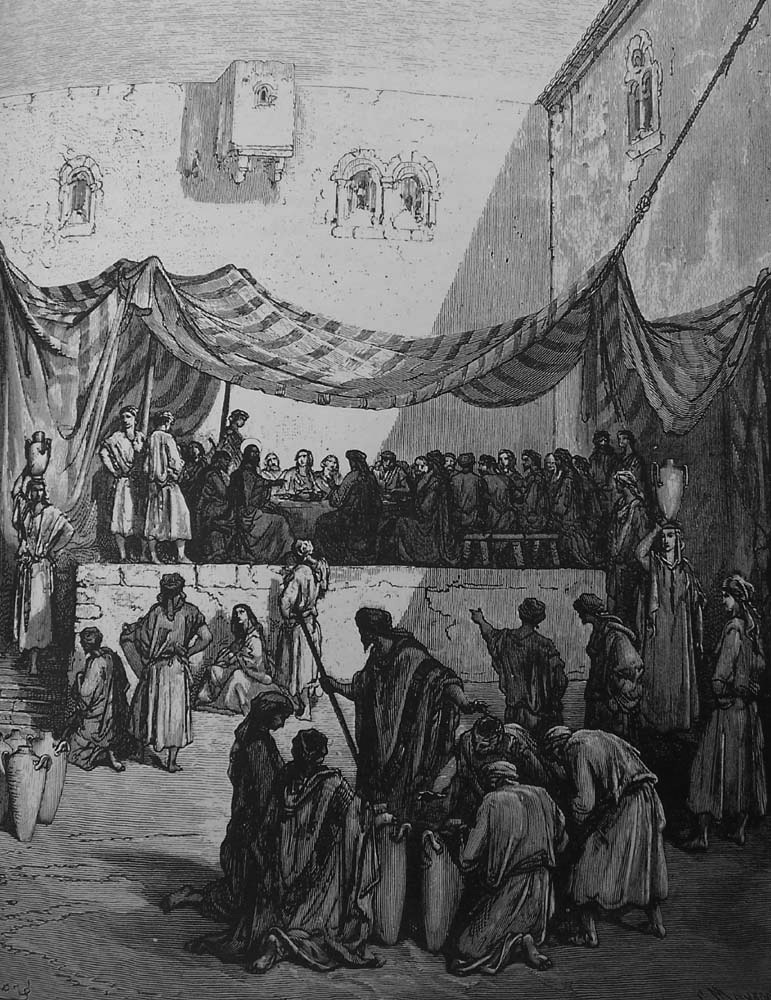
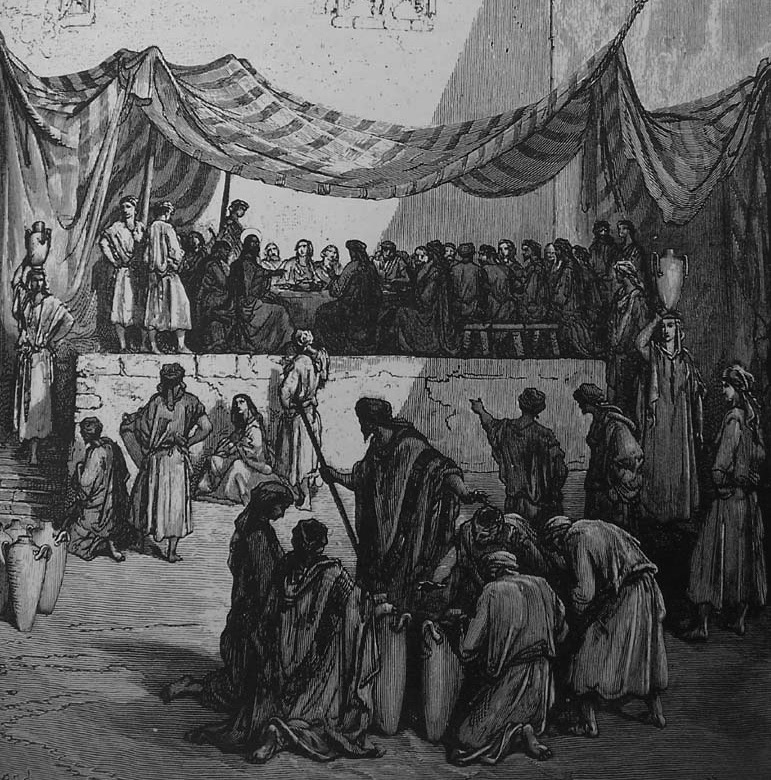
Use larger Dore scans for Transfiguration and Last Supper, tighten Cana crop

diff --git a/priv/static/images/woodcuts/manifest/joyful-luminous-rejected.md b/priv/static/images/woodcuts/manifest/joyful-luminous-rejected.md
@@ -4,7 +4,9 @@
 - Cleveland Museum of Art Life of the Virgin scans (CC0): valid alternatives, not needed.
 - Durer "Presentation of the Virgin in the Temple" (NGA 6696): wrong scene (Mary as a child, not Christ).
 - Durer "Birth of the Virgin" (NGA 6695): wrong scene.
-- Doré Last Supper and Transfiguration (Commons) are small (about 475-497px wide); no larger Commons copy of either was found, so they are kept at native size, not upscaled.
+- Superseded: the small Dore Transfiguration (497x622, Gustave_Dore_-_The_Transfiguration.jpg) and Last Supper (475x602, Jesus_and_the_disciples_at_the_Last_Supper.jpg) were replaced by 2600px scans of the same plates from The Bible Panorama (1891) on Commons (Internet Archive Book Images). Their Commons licence field reads "No restrictions", not a PD-old tag; the book and engravings are 19th century. Flag for the manager if only PD-tagged files are acceptable.
+- Same book, 14598521267: Doré Tribute Money, wrong scene.
+- Cana is a tighter crop (top 210px of empty wall removed) of the native 771x1000 scan; no larger Doré Cana was found. No figure is cut through.
 - Doré Sermon on the Mount: the Commons scan has a printed caption "SERMON ON THE MOUNT" below the plate; cropped off.
 - Doré Cana: Christ is small in the composition (a wide banquet scene); it was the only Doré Cana on Commons.
 - Schnorr von Carolsfeld alternatives were searched; none found on Commons for these scenes.
